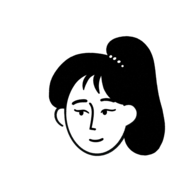
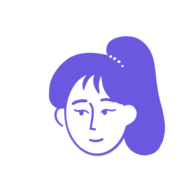
ui: agent card face is purple on a white square; faces recoloured
Claude-Session: https://claude.ai/code/session_01UXjtzdnGwSbF1GzGT7nRoG

Changed region(s): [[0.25, 0.1875, 0.875, 0.8125], [0.4688, 0.7188, 0.5625, 0.75]]

diff --git a/app/ui/assistant/AgentCard.svelte b/app/ui/assistant/AgentCard.svelte
@@ -53,13 +53,13 @@
     height: 56px;
     display: grid;
     place-items: center;
+    background: #fff;
+    border-radius: var(--radius-md);
   }
 
-  /* Faces are black on transparent; make them white and sit them straight on the card. */
   .face img {
     width: 100%;
     height: 100%;
-    filter: brightness(0) invert(1);
   }
 
   .text {
